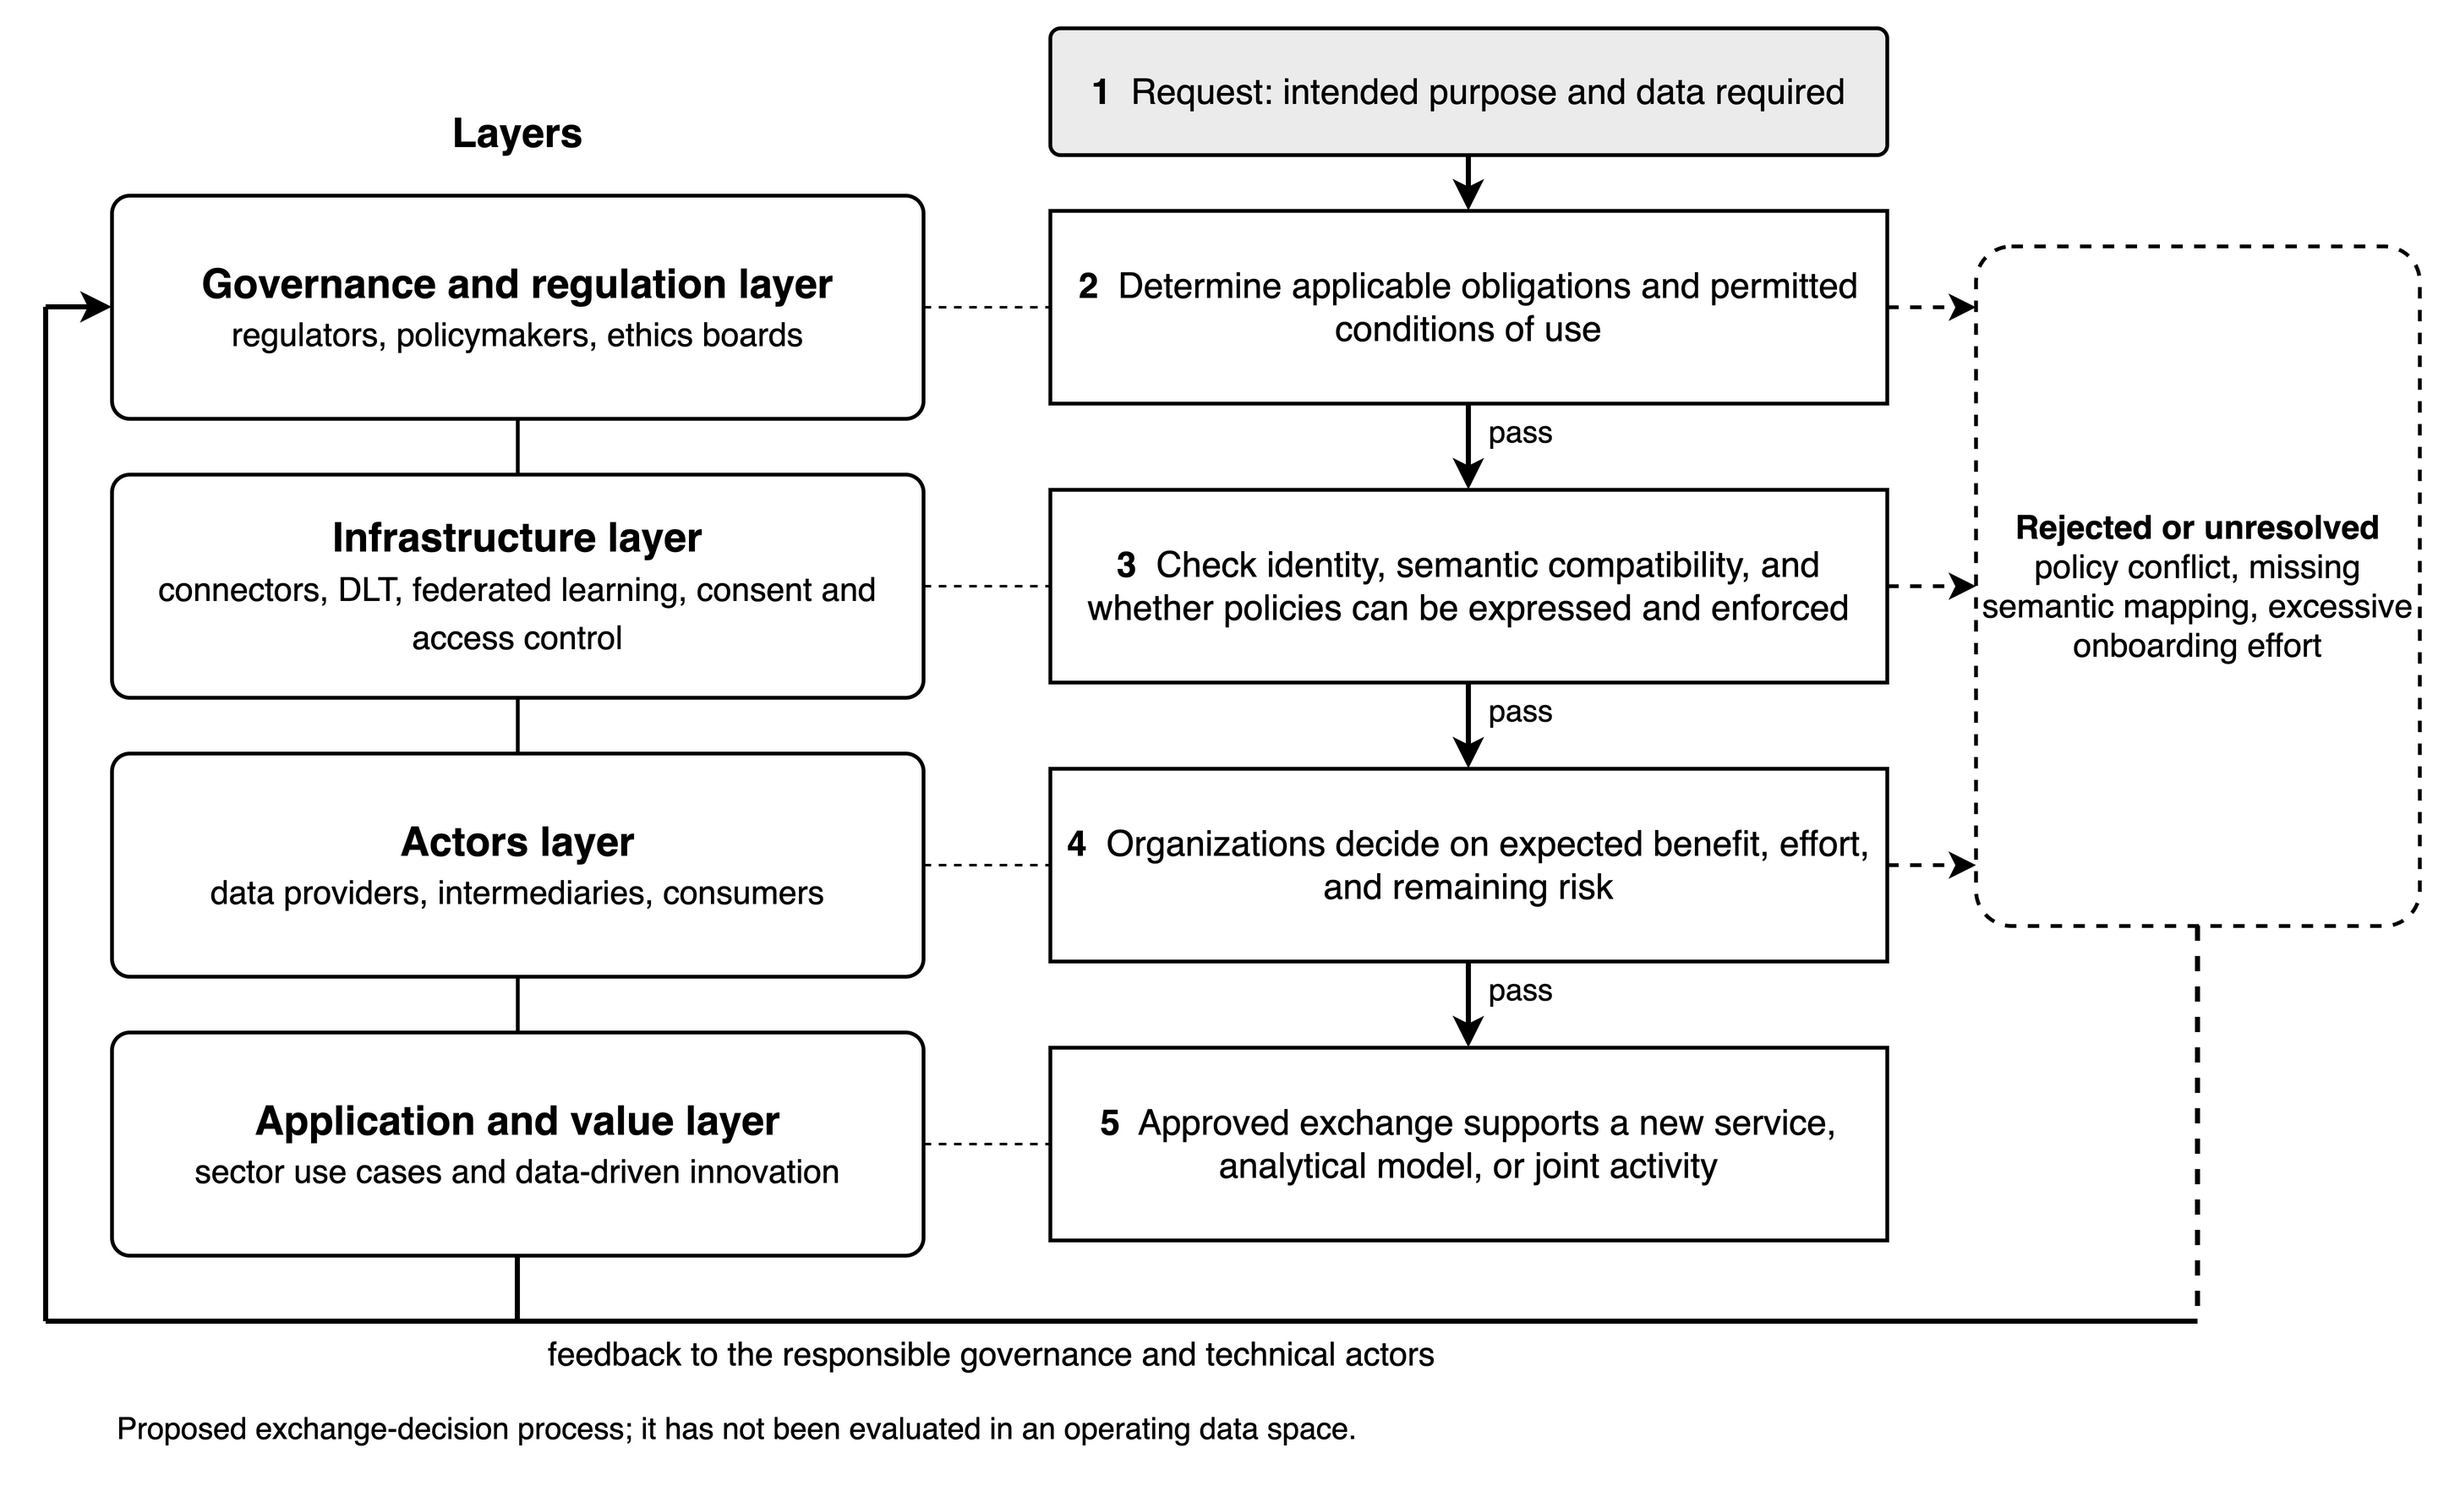
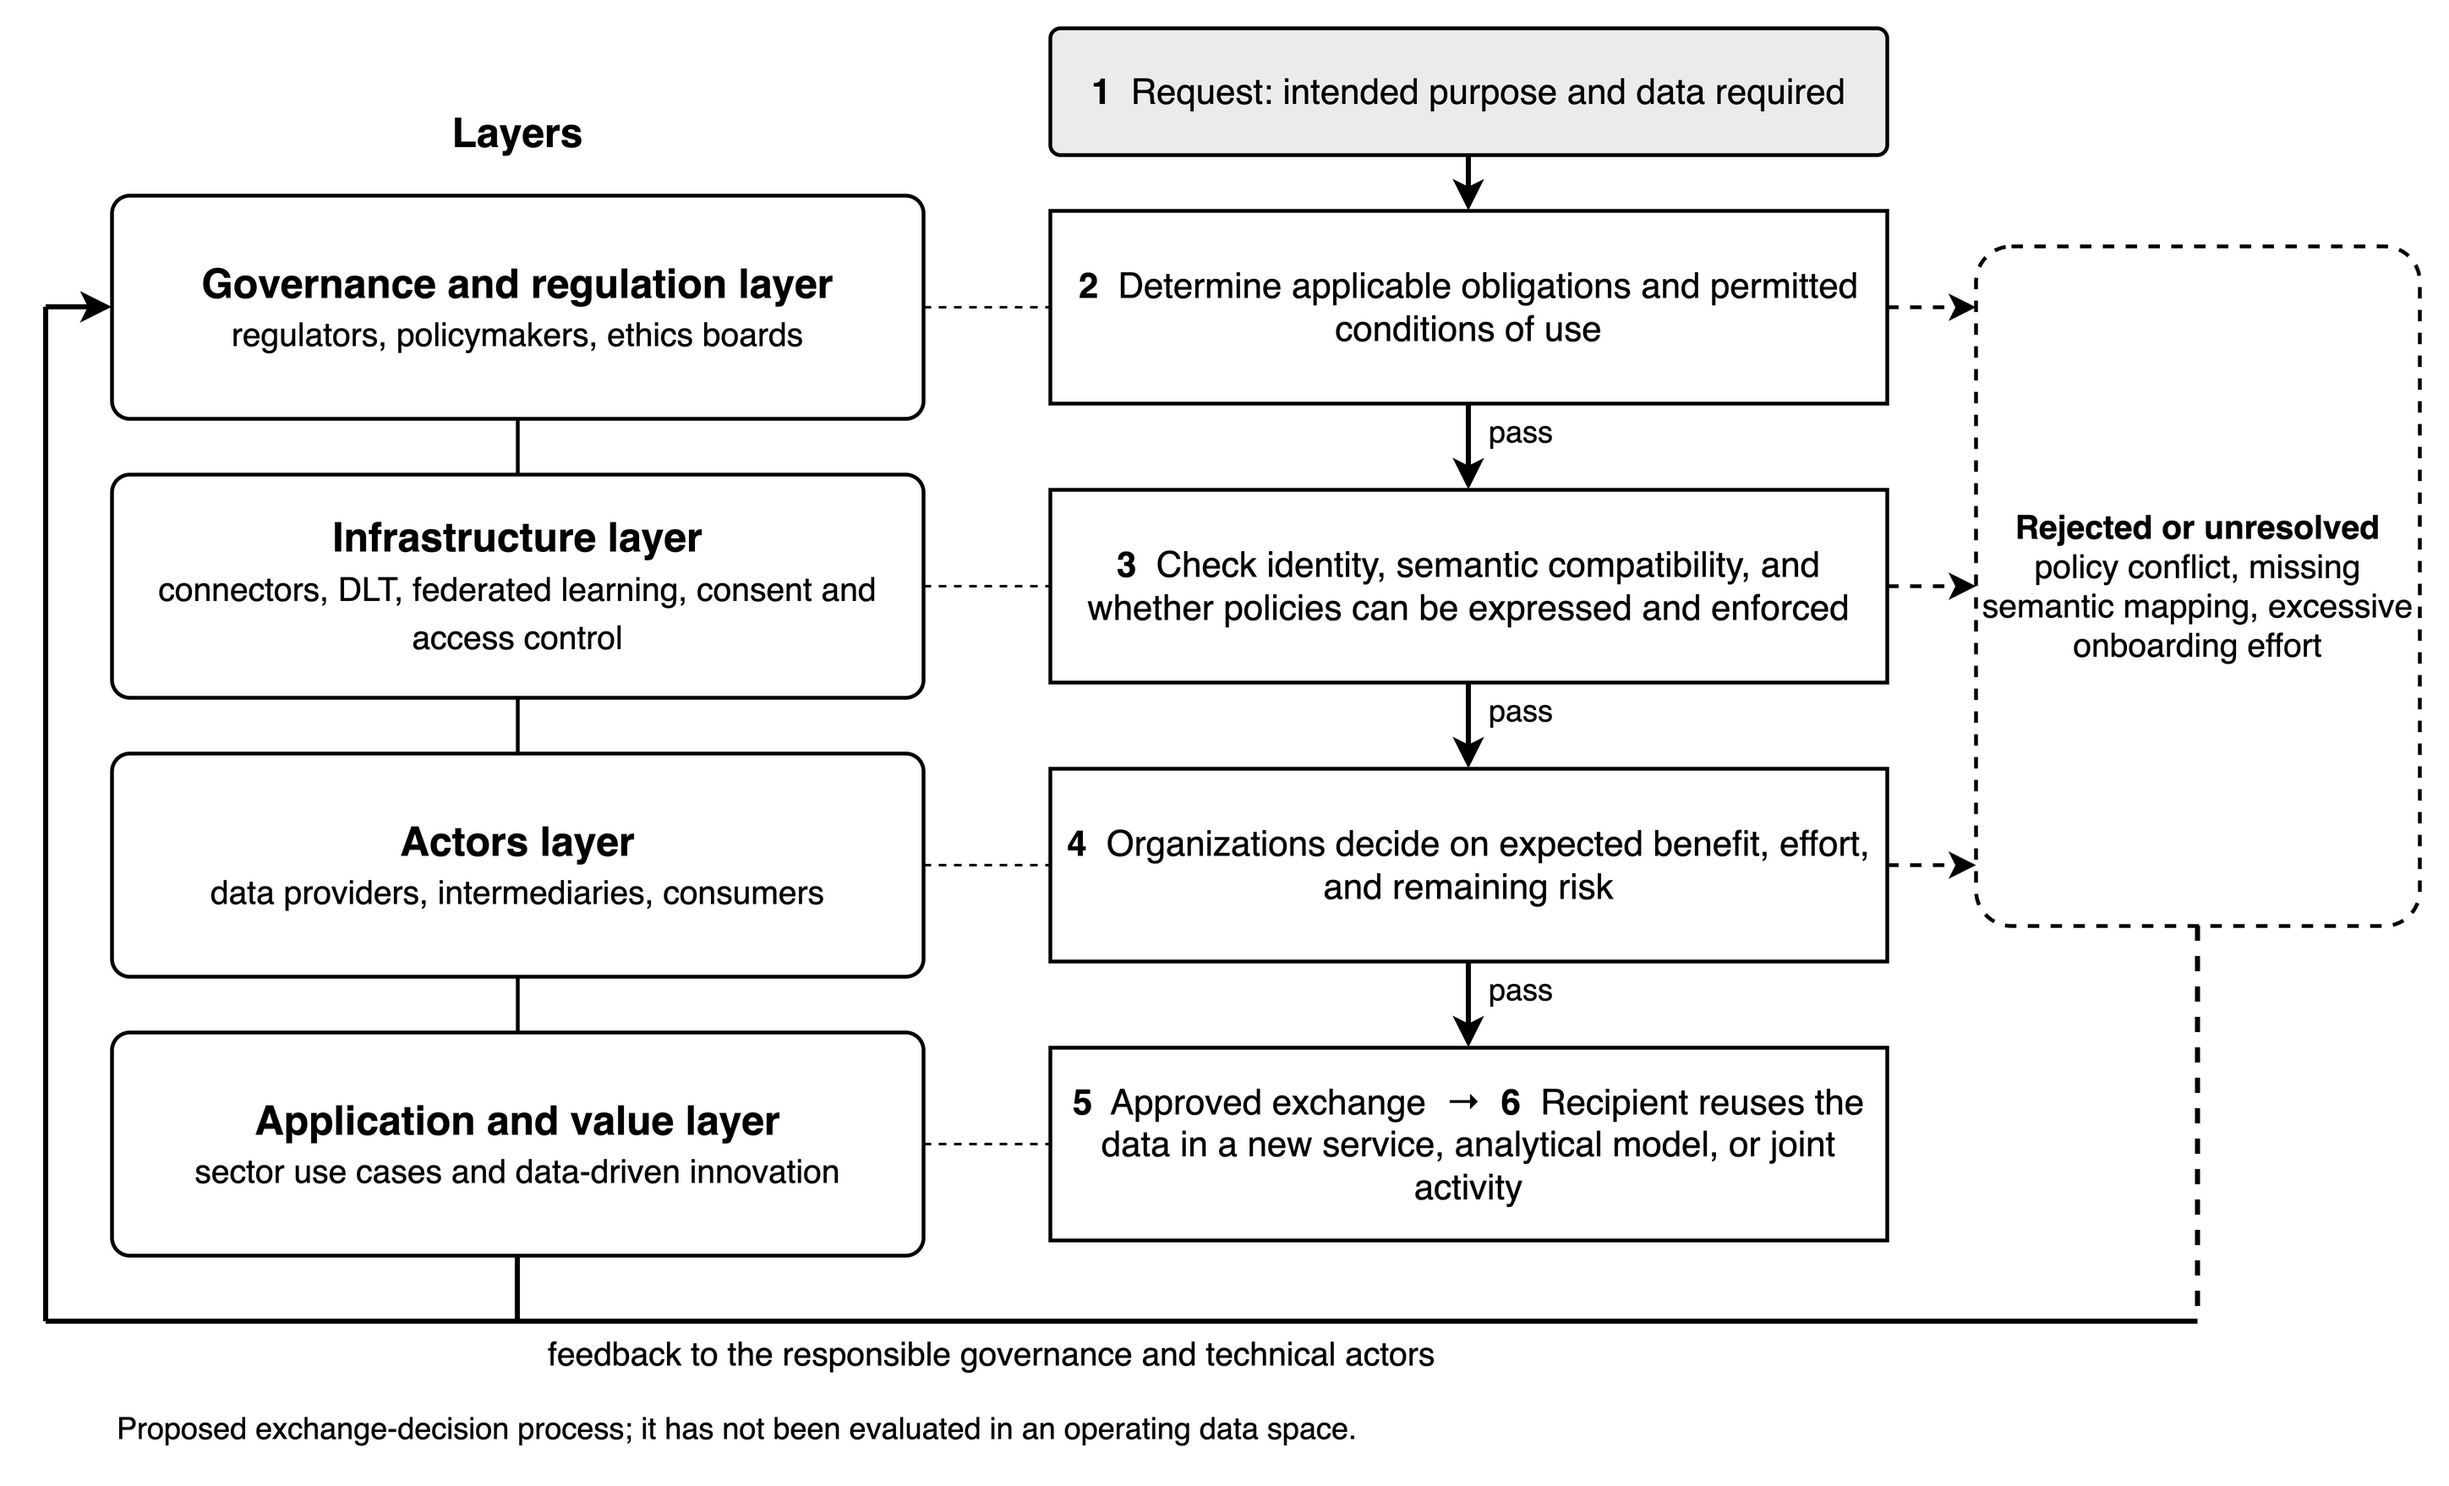
Figure 5 reuse step; scale for rule-routine consistency

Changed region(s): [[0.4349, 0.7372, 0.7767, 0.8294]]

diff --git a/src/06_framework_figure.py b/src/06_framework_figure.py
@@ -2,7 +2,7 @@
 
 Left: the four layers. Right: the proposed exchange-decision process of
 Section 5.2 (request -> legal and policy determination -> identity, semantic and
-policy checks -> actor decision -> exchange and application outcome), with
+policy checks -> actor decision -> exchange -> reuse in the application layer), with
 rejection branches and the feedback path to governance. Black and white; there
 are no data in this figure, and the process has not been evaluated empirically.
 """
@@ -24,7 +24,7 @@ steps = [
     "<b>2</b>&nbsp; Determine applicable obligations and permitted conditions of use",
     "<b>3</b>&nbsp; Check identity, semantic compatibility, and whether policies can be expressed and enforced",
     "<b>4</b>&nbsp; Organizations decide on expected benefit, effort, and remaining risk",
-    "<b>5</b>&nbsp; Approved exchange supports a new service, analytical model, or joint activity",
+    "<b>5</b>&nbsp; Approved exchange&nbsp; &rarr;&nbsp; <b>6</b>&nbsp; Recipient reuses the data in a new service, analytical model, or joint activity",
 ]
 
 W, H = 960, 585

diff --git a/protocol/construct_dictionary.md b/protocol/construct_dictionary.md
@@ -8,7 +8,7 @@ has been measured in this review. Indicators are proposals for later studies.
 | Construct | Definition | Layer / step in Figure 5 | Proposed indicator | Used in |
 |---|---|---|---|---|
 | Policy interpretability | How easily a participant can tell which obligations and conditions of use apply to a given data set and partner | Governance; step 2 (obligations) | Time and expert effort to classify a request; share of requests needing legal advice | P1 |
-| Rule–routine consistency | Agreement between the formally defined sharing rules and the routines by which an organization decides what to share | Governance → actors | Policy compliance records; interviews coded for divergence between rule and practice | P1 |
+| Rule–routine consistency | Agreement between the formally defined sharing rules and the routines by which an organization decides what to share | Governance → actors | Share (0–1) of sampled sharing decisions that follow the written rule, from policy compliance records and interviews | P1 |
 | Semantic compatibility | Whether the parties' data models and vocabularies can be mapped so that the recipient can interpret the data | Infrastructure; step 3 | Share of fields mapped without manual work; unresolved mappings per exchange | P2 |
 | Policy compatibility | Whether the required usage conditions can be expressed and enforced by both parties' connectors | Infrastructure; step 3 | Share of usage conditions expressible in the connector policy language | P2 |
 | Integration effort | Work needed to set up a new exchange | Infrastructure → actors | Onboarding time; engineering person-days | P2 |
@@ -16,7 +16,7 @@ has been measured in this review. Indicators are proposals for later studies.
 | Implementation capability | Skills and resources to operate privacy-preserving controls | Actors (moderator) | Dedicated security function (yes/no); staff with relevant skills | P3 |
 | Participation | Whether an organization takes part in exchanges | Actors; step 4 | Completed exchange agreements per eligible organization | P3 |
 | Completed exchange | An approved request whose data was delivered under the agreed conditions | Step 5 | Share of eligible requests completed | P1 |
-| Reuse | Use of exchanged data by the recipient beyond the first transfer | Application | Number of downstream uses per completed exchange | P1 (mediator) |
+| Reuse | Use of exchanged data by the recipient beyond the first transfer | Application; step 6 | Number of downstream uses per completed exchange | P1 (mediator) |
 | Innovation outcome | New or improved product, service, analytical capability or process that depends on contributions from more than one organization | Application | Counted separately from exchange performance | P1 (distal) |
 | Governance adaptation | Change in a governance rule or technical standard following feedback | Feedback loop | Time from an identified issue to the change (adaptation latency) | P4 |
 
